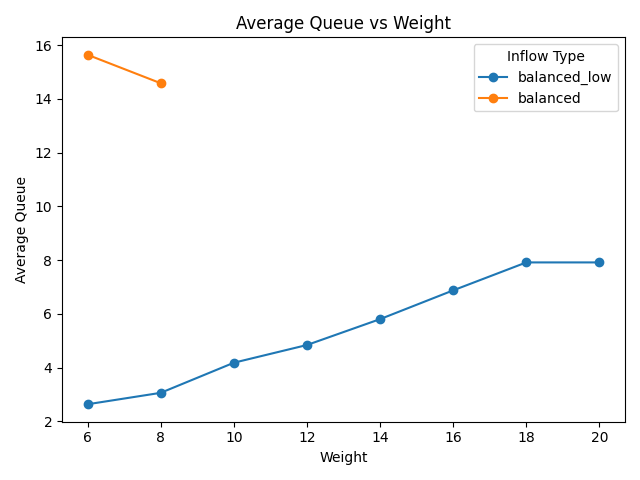
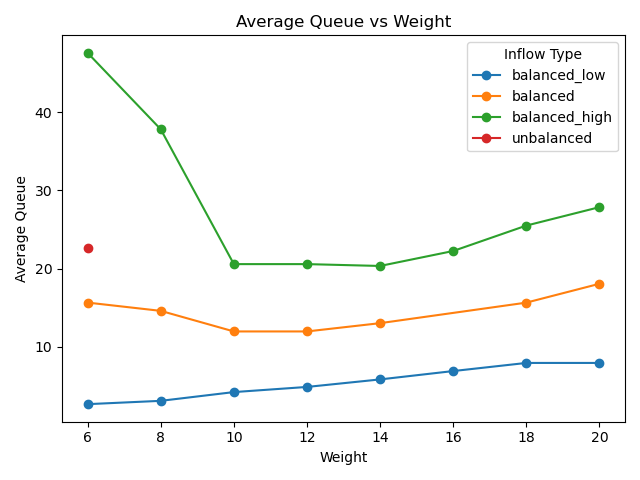
119-実験を保存

diff --git a/misc/check_weight_difference.py b/misc/check_weight_difference.py
@@ -20,7 +20,8 @@ config = {
     'inflow_types': {
         'balanced_low': True,
         'balanced' : True,
-        'unbalanced' : False,
+        'balanced_high' : True,
+        'unbalanced' : True,
         'main-minor' : False,
     },
     'compare_to' : 'all' # 1. 'all': 全てのdemand_typeを1つのグラフで比較, 2. 'each': 各demand_typeごとに比較（scootとdrlの結果も基準線として表示）
@@ -30,8 +31,9 @@ config = {
 weights = {
     '2222' : {
         'balanced_low': [6, 8, 10, 12, 14, 16, 18, 20],
-        'balanced' : [6, 8],
-        'unbalanced' : [],
+        'balanced' : [6, 8, 10, 12, 14, 18, 20],
+        'balanced_high' : [6, 8, 10, 12, 14, 16, 18, 20],
+        'unbalanced' : [6],
         'main-minor' : [],
     },
     '3333' : {
